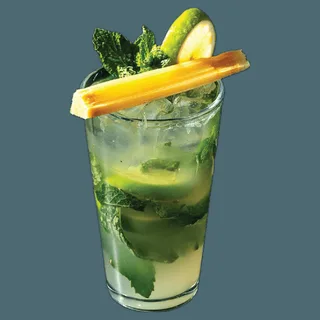
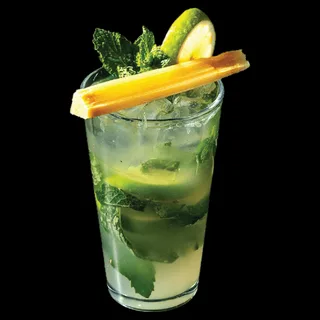
feat: cut-out drinks on black, Tamarindo wording; close M4, M5, M15, P20
DESIGN-DEBT entry 105.

diff --git a/TASKS.md b/TASKS.md
@@ -152,7 +152,7 @@ not merged.
 | P17 | **Mostly done 9 October**, entry 98: Birria Pizza, Tacos Dorados, the fajitas pairing (with tacos and margaritas, not the briefed molcajete shot), the piña colada and the trompo hero are placed. Still open: a molcajete, fajita and Big Mami photograph for the pairing. Original note: Photographs for the slots emptied in entry 95: Birria Pizza (three places), Tacos Dorados (two), the fajitas pairing, a restaurant-owned piña colada, and trompo footage for the `/street-tacos` hero. |
 | P18 | `npm run verify` cannot run: `design/reference/` has no screenshots. Same root as D2. |
 | ~~P19~~ | **Done 7 October**, entry 97. Happy hour is 3 PM to 6 PM; the review is hidden from the rail. |
-| P20 | The mobile rail on `/happy-hour` is hidden at every width. Decide whether it should show on phones or come out of the markup. |
+| ~~P20~~ | **Closed 13 October**, entry 105. Sam is happy with `/happy-hour` on a phone; the hidden rail stays in the markup. |
 | ~~P21~~ | **Answered 7 October**, entry 97: Tue and Wed start at 8 PM, birria is 12 hours, La Cocina is "Since 2003", time format stays PM. |
 | P22 | For Mario: three descriptions still say six hours, now that birria is 12. `/birria-tacos` "six hours in the pot", `/quesabirria-tacos` "Six hours of braising", `/our-story` "six-hour birria". |
 
@@ -167,15 +167,15 @@ Raised 9 October. Applied changes are DESIGN-DEBT entry 98, on branch `media-pla
 | M1 | **Nine PHOTO frames left on `/menu`:** 6" Single Tacos, Enchiladas de Camarón (two cards), Fajita Burrito, Arroz con Pollo, Tequila's Chicken Platter, Cheeseburger, Chicken Nuggets, 2 Tacos Mañaneros. None of these is in the client's folder. |
 | M2 | **House Margarita shows a frozen margarita.** The happy hour menu says "12 oz. on the rocks". Either a rocks photograph, or confirm frozen is fine. On `/menu` and `/happy-hour`. |
 | M3 | **Frozen Piña Colada shows the virgin piña colada**, in a mug, a phone photograph on a plain background. Fine as a stand-in; a photograph of the cocktail itself would be better. |
-| M4 | **Cut-out drinks are on slate, the older drink thumbnails are on black.** Nine cards in Margaritas & Cocktails and the Jamaica and Jalapeño cards on `/margaritas`. Pick one ground. |
-| M5 | **The item photo row on `/happy-hour` is new**, added because the page had no per-item photo slots. Keep it or drop it. |
+| ~~M4~~ | **Done 13 October**, entry 105. All cut-outs are on black. |
+| ~~M5~~ | **Decided 13 October**, entry 105: the item photo row on `/happy-hour` stays. |
 | M6 | **`/fajitas-molcajetes` "Big plate, Big Mami."** now sits beside tacos and margaritas. The molcajete, fajita and Big Mamis photograph is still wanted, or the heading changes. |
 | ~~M7~~ | **Done 9 October**, entry 99. The hero pill is removed and the heading reads "Long Tables, International Room". |
 | M8 | **`/margaritas`:** Watermelon, Lychee and Coconut cards have no photograph, so the flavour grid has four tall cards and three short ones. |
 | M9 | Still not supplied: Big Mami, the agua fresca station, malteadas, birria with a cantarito, the new Wednesday flyer (P12). Tomas' headshot arrived and is placed, entry 100. |
 | ~~M10~~ | **Done 13 October**, entry 103. The Whole House has the exterior photograph, and no page uses `need-image.svg` any more. |
 | M11 | **`/happy-hour` layout shift, 0.141**, the hero photograph pair moving, present on `main`. Likely D7, the font swap. Worth 6 Lighthouse points on that page. |
-| M15 | Homepage dish data in `Base.astro`, Tamarindo: "Pulp cooked in our kitchen" and "tamarind pulp we cook in our own kitchen, not a syrup". Not the phrase entry 99 was asked to change; confirm whether it should also say "made from scratch in-house". |
+| ~~M15~~ | **Done 13 October**, entry 105. Tamarindo reads "made from scratch in-house". |
 | M16 | Two placeholder pills still in the markup but not visible: the quinceañeras hero (`display: none`) and the homepage chef caption (removed by script). Delete from the markup when convenient. |
 
 | M17 | **Favicon done 9 October**, entry 101. `public/icon-192.png` is unlinked: it wants a web manifest, and the site has none. Add one if an installable icon or an Android home screen icon is wanted. |

diff --git a/DESIGN-DEBT.md b/DESIGN-DEBT.md
@@ -3131,3 +3131,28 @@ the page is 1.5MB lighter.
 **Checks.** Build 21 pages, 21 canonicals equal 21 sitemap entries, one `<h1>` per page. The clip
 plays at 390 and 1440, muted and looping, no console errors; the hero photographed at both.
 
+## 105. Three decisions from Sam: black cut-outs, the item row stays, Tamarindo wording, 13 October
+
+Answers to the open list. Branch `decisions-oct-13`.
+
+**The cut-out drinks are on black (TASKS M4).** Entry 98 put the nine transparent PNGs on the
+slate stored under their alpha, which left the Margaritas section with two grounds. All of them
+are re-encoded on black, the ground the eleven older drink thumbnails use: the nine menu pairs,
+the Margarita Flight in the `/happy-hour` item row, and the Jamaica and Jalapeño photographs on
+`/margaritas`. Same file names, same sizes, 21 files. `scripts/encode-media-placement-1.mjs`
+now encodes them that way. Looked at on `/menu`, `/margaritas` and `/happy-hour`: the dark
+glass stems still read against black.
+
+**The `/happy-hour` item photo row stays (M5).** No change.
+
+**Tamarindo, in the homepage dish data in `Base.astro` (M15).** "Pulp cooked in our kitchen" is
+"Pulp made from scratch in-house", and "Made with tamarind pulp we cook in our own kitchen, not
+a syrup." is "Tamarind pulp made from scratch in-house, not a syrup." No pulp on the site is
+described as cooked any more.
+
+**The hidden mobile rail on `/happy-hour` (P20) is closed.** Sam sees everything wanted on a
+phone. The rail stays in the markup, hidden, with its copy correct.
+
+**Checks.** Build 21 pages, 21 canonicals equal 21 sitemap entries, one `<h1>` per page. The
+three sections photographed at 390 and 1440.
+
